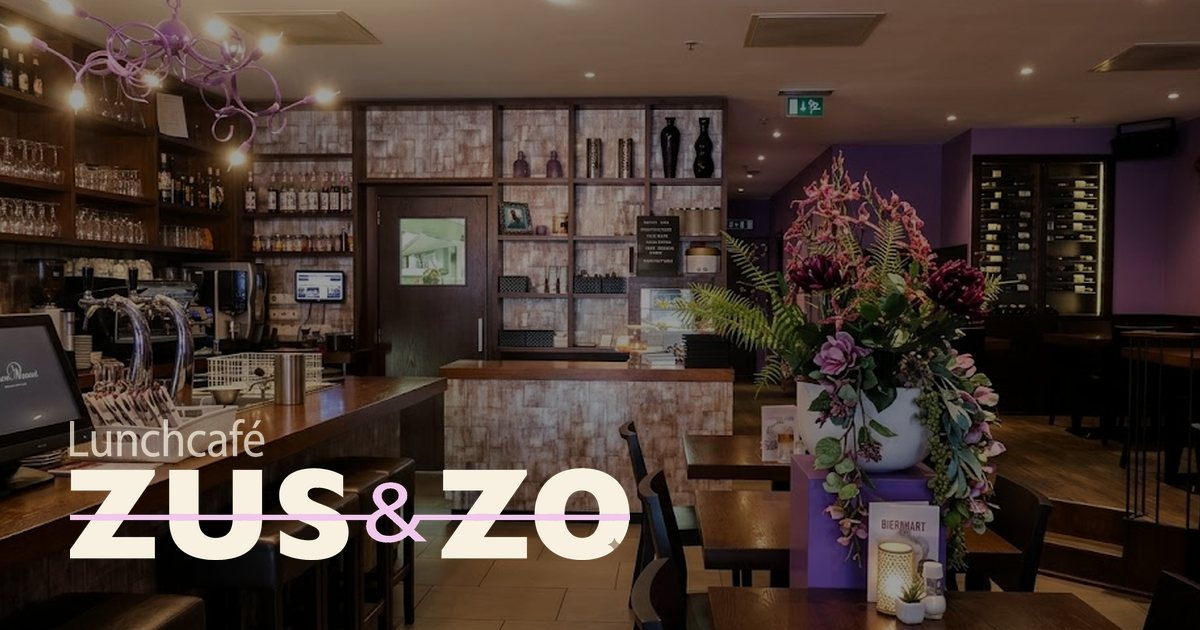
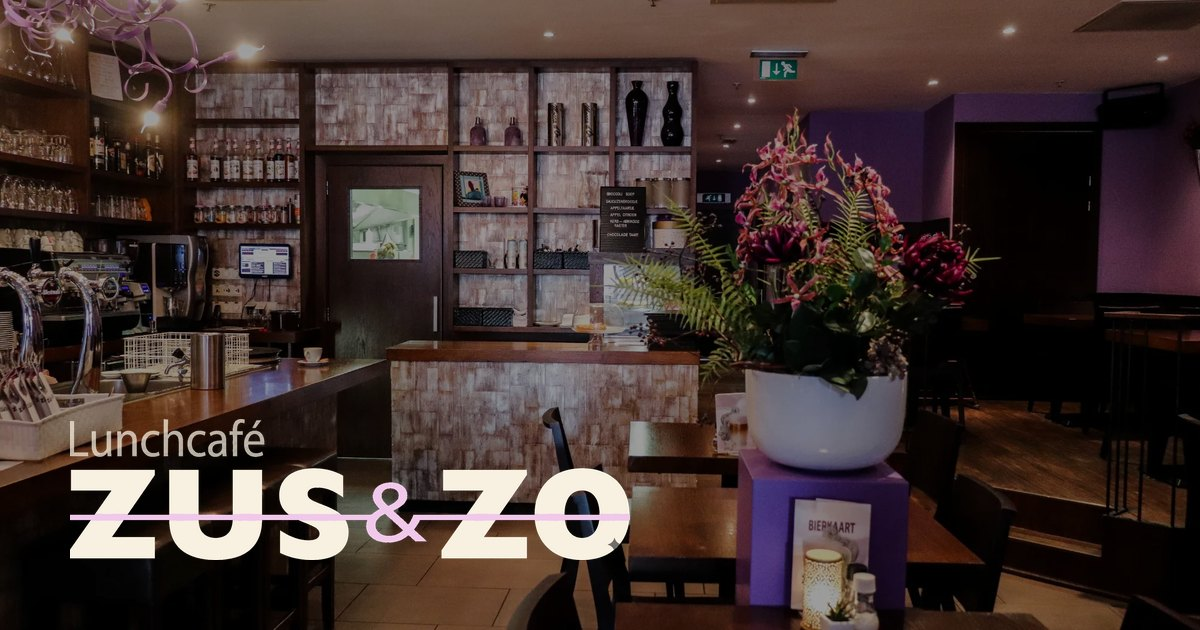
Homepage-foto in hoge kwaliteit (origineel 2000px, 1200px voor telefoons)
Ook gebruikt op het inlogscherm, bij de subpagina's en voor de deel-afbeelding.

Claude-Session: https://claude.ai/code/session_015p8b4Nf25yg5QtoVsgnEvn

diff --git a/index.html b/index.html
@@ -18,7 +18,7 @@
 <link rel="preconnect" href="https://fonts.googleapis.com">
 <link rel="preconnect" href="https://fonts.gstatic.com" crossorigin>
 <link href="https://fonts.googleapis.com/css2?family=Bricolage+Grotesque:opsz,wght@12..96,400;12..96,500;12..96,600;12..96,700&family=Hanken+Grotesk:ital,wght@0,300;0,400;0,500;0,600;0,700;1,400;1,500;1,600&family=DM+Mono:wght@400;500&family=Caveat:wght@500;600&display=swap" rel="stylesheet">
-<link rel="stylesheet" href="styles.css?v=20261104r" />
+<link rel="stylesheet" href="styles.css?v=20261104s" />
 </head>
 <body>
 <div id="root"></div>
@@ -27,20 +27,20 @@
 <script src="https://unpkg.com/react-dom@18.3.1/umd/react-dom.development.js" integrity="sha384-u6aeetuaXnQ38mYT8rp6sbXaQe3NL9t+IBXmnYxwkUI2Hw4bsp2Wvmx4yRQF1uAm" crossorigin="anonymous"></script>
 <script src="https://unpkg.com/@babel/standalone@7.29.0/babel.min.js" integrity="sha384-m08KidiNqLdpJqLq95G/LEi8Qvjl/xUYll3QILypMoQ65QorJ9Lvtp2RXYGBFj1y" crossorigin="anonymous"></script>
 
-<script src="src/config.js?v=20261104r"></script>
-<script type="text/babel" src="src/data.jsx?v=20261104r"></script>
-<script type="text/babel" src="src/menus.jsx?v=20261104r"></script>
-<script type="text/babel" src="src/chrome.jsx?v=20261104r"></script>
-<script src="src/reserve-api.js?v=20261104r"></script>
-<script type="text/babel" src="src/reserve.jsx?v=20261104r"></script>
-<script type="text/babel" src="src/page-home.jsx?v=20261104r"></script>
-<script type="text/babel" src="src/page-lunch.jsx?v=20261104r"></script>
-<script type="text/babel" src="src/page-hightea.jsx?v=20261104r"></script>
-<script type="text/babel" src="src/page-bezorging.jsx?v=20261104r"></script>
-<script type="text/babel" src="src/page-diner.jsx?v=20261104r"></script>
-<script type="text/babel" src="src/page-contact.jsx?v=20261104r"></script>
-<script type="text/babel" src="src/page-legal.jsx?v=20261104r"></script>
-<script type="text/babel" src="src/page-annuleren.jsx?v=20261104r"></script>
-<script type="text/babel" src="src/app.jsx?v=20261104r"></script>
+<script src="src/config.js?v=20261104s"></script>
+<script type="text/babel" src="src/data.jsx?v=20261104s"></script>
+<script type="text/babel" src="src/menus.jsx?v=20261104s"></script>
+<script type="text/babel" src="src/chrome.jsx?v=20261104s"></script>
+<script src="src/reserve-api.js?v=20261104s"></script>
+<script type="text/babel" src="src/reserve.jsx?v=20261104s"></script>
+<script type="text/babel" src="src/page-home.jsx?v=20261104s"></script>
+<script type="text/babel" src="src/page-lunch.jsx?v=20261104s"></script>
+<script type="text/babel" src="src/page-hightea.jsx?v=20261104s"></script>
+<script type="text/babel" src="src/page-bezorging.jsx?v=20261104s"></script>
+<script type="text/babel" src="src/page-diner.jsx?v=20261104s"></script>
+<script type="text/babel" src="src/page-contact.jsx?v=20261104s"></script>
+<script type="text/babel" src="src/page-legal.jsx?v=20261104s"></script>
+<script type="text/babel" src="src/page-annuleren.jsx?v=20261104s"></script>
+<script type="text/babel" src="src/app.jsx?v=20261104s"></script>
 </body>
 </html>

diff --git a/src/chrome.jsx b/src/chrome.jsx
@@ -47,7 +47,7 @@ const HERO_S = "assets/Schermafbeelding 2026-05-22 ";
 const HERO_PHOTO_OPTIONS = {
   "assets/gastvrouw-tray.png": [
     ["assets/gastvrouw-tray.png", HERO_S + "162842.png", HERO_S + "162823.png"],
-    "assets/interieur.jpg",
+    "assets/interieur-hd.jpg",
     [HERO_S + "162801.png", "assets/gastvrouw-tray.png", "assets/terras-proost.png"],
   ],
   [HERO_S + "162856.png"]: [
@@ -62,12 +62,12 @@ const HERO_PHOTO_OPTIONS = {
   ],
   "assets/Gemini_Generated_Image_eij9mzeij9mzeij9.png": [
     "assets/Gemini_Generated_Image_eij9mzeij9mzeij9.png",
-    ["assets/Gemini_Generated_Image_eij9mzeij9mzeij9.png", "assets/feest-dansvloer.png", "assets/interieur.jpg"],
-    "assets/interieur.jpg",
+    ["assets/Gemini_Generated_Image_eij9mzeij9mzeij9.png", "assets/feest-dansvloer.png", "assets/interieur-hd.jpg"],
+    "assets/interieur-hd.jpg",
   ],
   [HERO_S + "162842.png"]: [
     [HERO_S + "162823.png", HERO_S + "162842.png", HERO_S + "162916.png"],
-    "assets/interieur.jpg",
+    "assets/interieur-hd.jpg",
     "assets/terras-proost.png",
   ],
 };
@@ -253,7 +253,7 @@ function FloatingReserve({ onClick }) {
 //   tag        , bottom-right caption (e.g. "PLACEHOLDER, etagère shot")
 //   children   , extra content in the aside column (CTAs)
 // ---------------------------------------------------------------
-function PageHero({ image, alt, tint, placeholder, eyebrow, number, titleNode, lede, tag, children, full }) {
+function PageHero({ image, alt, tint, placeholder, eyebrow, number, titleNode, lede, tag, children, full, srcSet }) {
   const tintClass = tint ? ` tint-${tint}` : "";
   if (!full && image && !placeholder) {
     const photos = heroPhoto(image);
@@ -277,7 +277,7 @@ function PageHero({ image, alt, tint, placeholder, eyebrow, number, titleNode, l
   return (
     <section className={"page-hero" + tintClass + (full ? "" : " page-hero-compact")}>
       {image && !placeholder && (
-        <img className="page-hero-img" src={image} alt={alt || ""} />
+        <img className="page-hero-img" src={image} srcSet={srcSet} sizes={srcSet ? "100vw" : undefined} alt={alt || ""} fetchpriority={full ? "high" : undefined} />
       )}
       {placeholder && (
         <div className={"page-hero-placeholder" + tintClass} aria-hidden="true"></div>

diff --git a/beheer.html b/beheer.html
@@ -11,8 +11,8 @@
 <link rel="preconnect" href="https://fonts.googleapis.com">
 <link rel="preconnect" href="https://fonts.gstatic.com" crossorigin>
 <link href="https://fonts.googleapis.com/css2?family=Bricolage+Grotesque:opsz,wght@12..96,500;12..96,600;12..96,700&family=Hanken+Grotesk:wght@400;500;600;700&family=DM+Mono:wght@400;500&display=swap" rel="stylesheet">
-<link rel="stylesheet" href="styles.css?v=20261104r" />
-<link rel="stylesheet" href="beheer.css?v=20261104r" />
+<link rel="stylesheet" href="styles.css?v=20261104s" />
+<link rel="stylesheet" href="beheer.css?v=20261104s" />
 </head>
 <body class="beheer">
 <div id="root"></div>
@@ -22,9 +22,9 @@
 <script src="https://unpkg.com/@babel/standalone@7.29.0/babel.min.js" integrity="sha384-m08KidiNqLdpJqLq95G/LEi8Qvjl/xUYll3QILypMoQ65QorJ9Lvtp2RXYGBFj1y" crossorigin="anonymous"></script>
 <script src="https://cdn.jsdelivr.net/npm/@supabase/supabase-js@2.49.4/dist/umd/supabase.js" integrity="sha384-rwykjmWNwVxboyFmvK9OXN0wj9hnMHA2aAHtits54DuACyCq0M2PrSNxhRb+hvXT" crossorigin="anonymous"></script>
 
-<script src="src/config.js?v=20261104r"></script>
-<script type="text/babel" src="src/data.jsx?v=20261104r"></script>
-<script src="src/reserve-api.js?v=20261104r"></script>
-<script type="text/babel" src="src/beheer.jsx?v=20261104r"></script>
+<script src="src/config.js?v=20261104s"></script>
+<script type="text/babel" src="src/data.jsx?v=20261104s"></script>
+<script src="src/reserve-api.js?v=20261104s"></script>
+<script type="text/babel" src="src/beheer.jsx?v=20261104s"></script>
 </body>
 </html>

diff --git a/beheer.css b/beheer.css
@@ -341,7 +341,7 @@ body.beheer .bh-tablechip.on, body.beheer .bh-day.on { background: var(--aubergi
     padding: 48px 56px; color: #FFFFFF;
     background:
       linear-gradient(180deg, rgba(42, 28, 46, 0.55) 0%, rgba(42, 28, 46, 0.25) 40%, rgba(42, 28, 46, 0.85) 100%),
-      url("assets/interieur.jpg") center / cover no-repeat;
+      url("assets/interieur-1200.jpg") center / cover no-repeat;
   }
   .bh-auth-side-logo { width: 220px; height: auto; display: block; }
   .bh-auth-quote { font-family: var(--serif); font-size: 40px; font-weight: 700; letter-spacing: -0.02em; line-height: 1.1; margin: 0 0 10px; max-width: 14ch; }

diff --git a/src/page-home.jsx b/src/page-home.jsx
@@ -30,7 +30,8 @@ function Hero({ go, openReserve }) {
     <React.Fragment>
       <window.PageHero
         full
-        image="assets/interieur.jpg"
+        image="assets/interieur-hd.jpg"
+        srcSet="assets/interieur-1200.jpg 1200w, assets/interieur-hd.jpg 2000w"
         alt="Interieur Zus & Zo met paarse luchter, houten bar en bloemen"
         titleNode={
           <React.Fragment>
